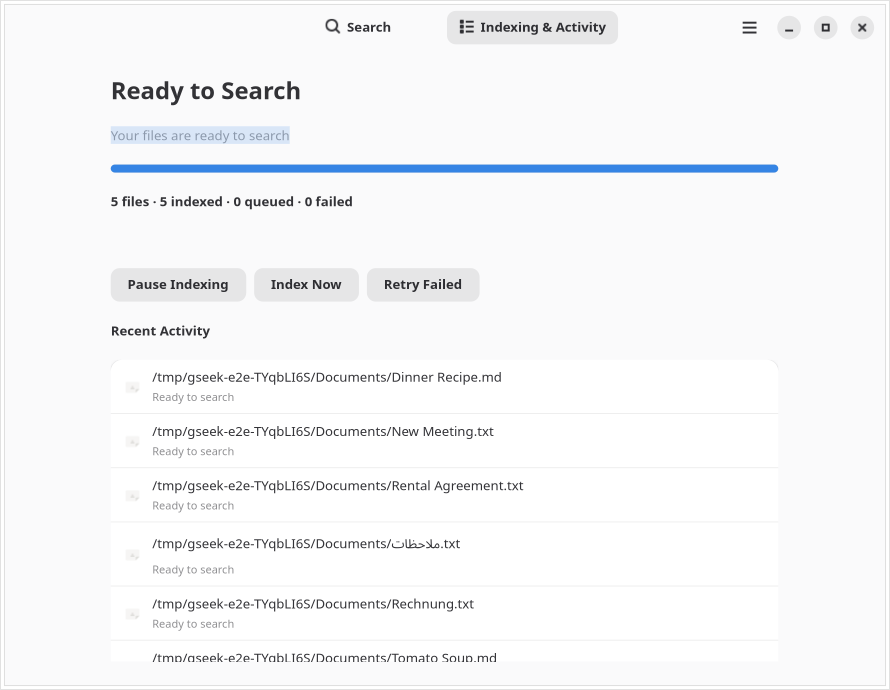
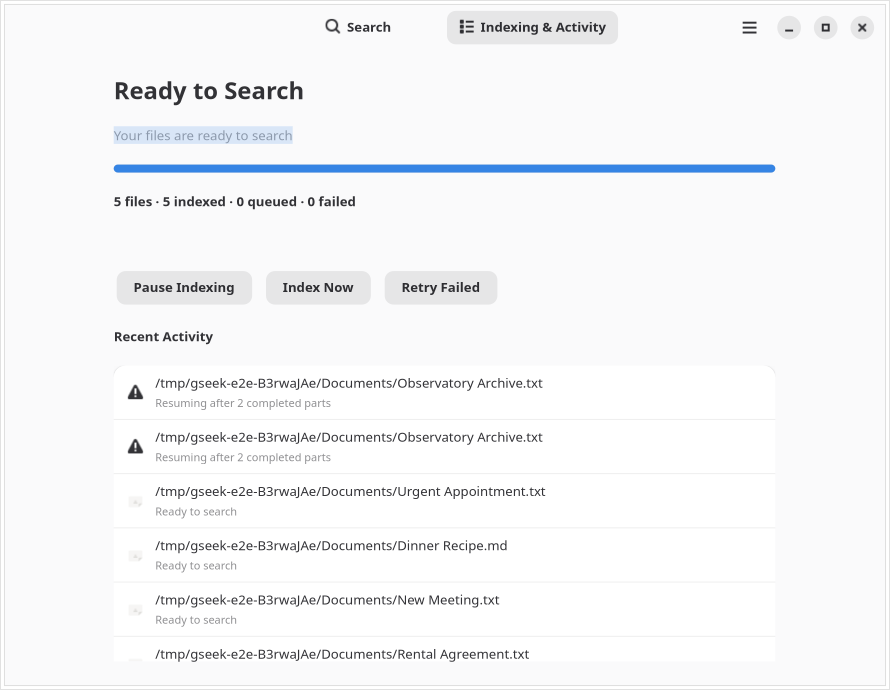
Let indexing controls wrap to fit narrow GNOME windows

diff --git a/src/ui.rs b/src/ui.rs
@@ -227,13 +227,20 @@ impl Window {
         current_file.set_ellipsize(gtk::pango::EllipsizeMode::Middle);
         current_file.set_wrap(false);
         activity_box.append(&current_file);
-        let buttons = gtk::Box::new(gtk::Orientation::Horizontal, 8);
+        let buttons = gtk::FlowBox::builder()
+            .selection_mode(gtk::SelectionMode::None)
+            .min_children_per_line(1)
+            .max_children_per_line(3)
+            .column_spacing(8)
+            .row_spacing(8)
+            .halign(gtk::Align::Start)
+            .build();
         let pause = gtk::Button::with_label("Pause Indexing");
-        buttons.append(&pause);
+        buttons.insert(&pause, -1);
         let scan = gtk::Button::with_label("Index Now");
-        buttons.append(&scan);
+        buttons.insert(&scan, -1);
         let retry = gtk::Button::with_label("Retry Failed");
-        buttons.append(&retry);
+        buttons.insert(&retry, -1);
         activity_box.append(&buttons);
         let logs = gtk::ListBox::new();
         logs.add_css_class("boxed-list");
